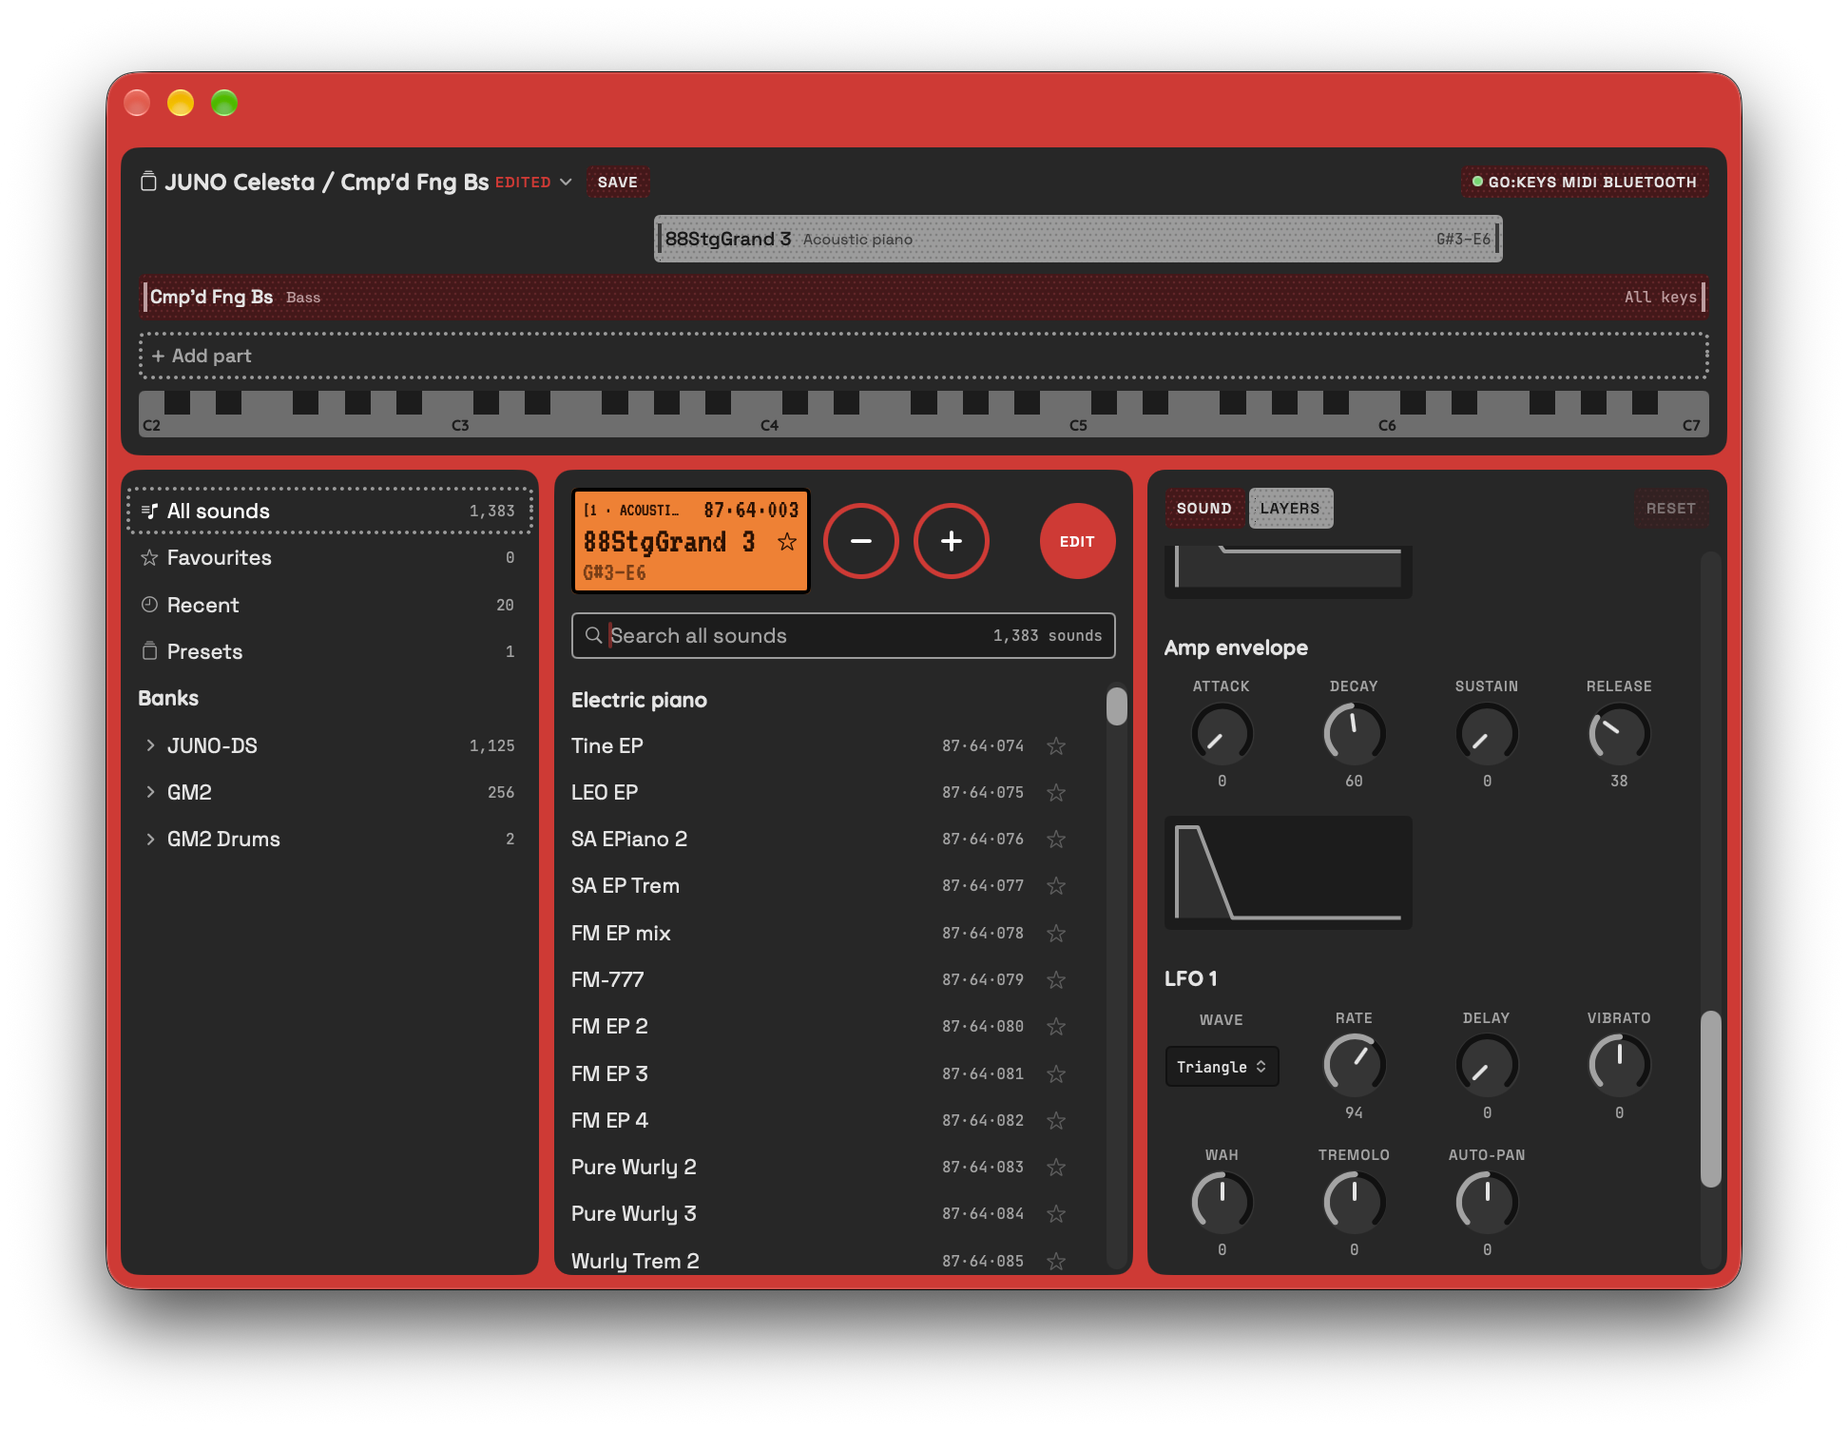
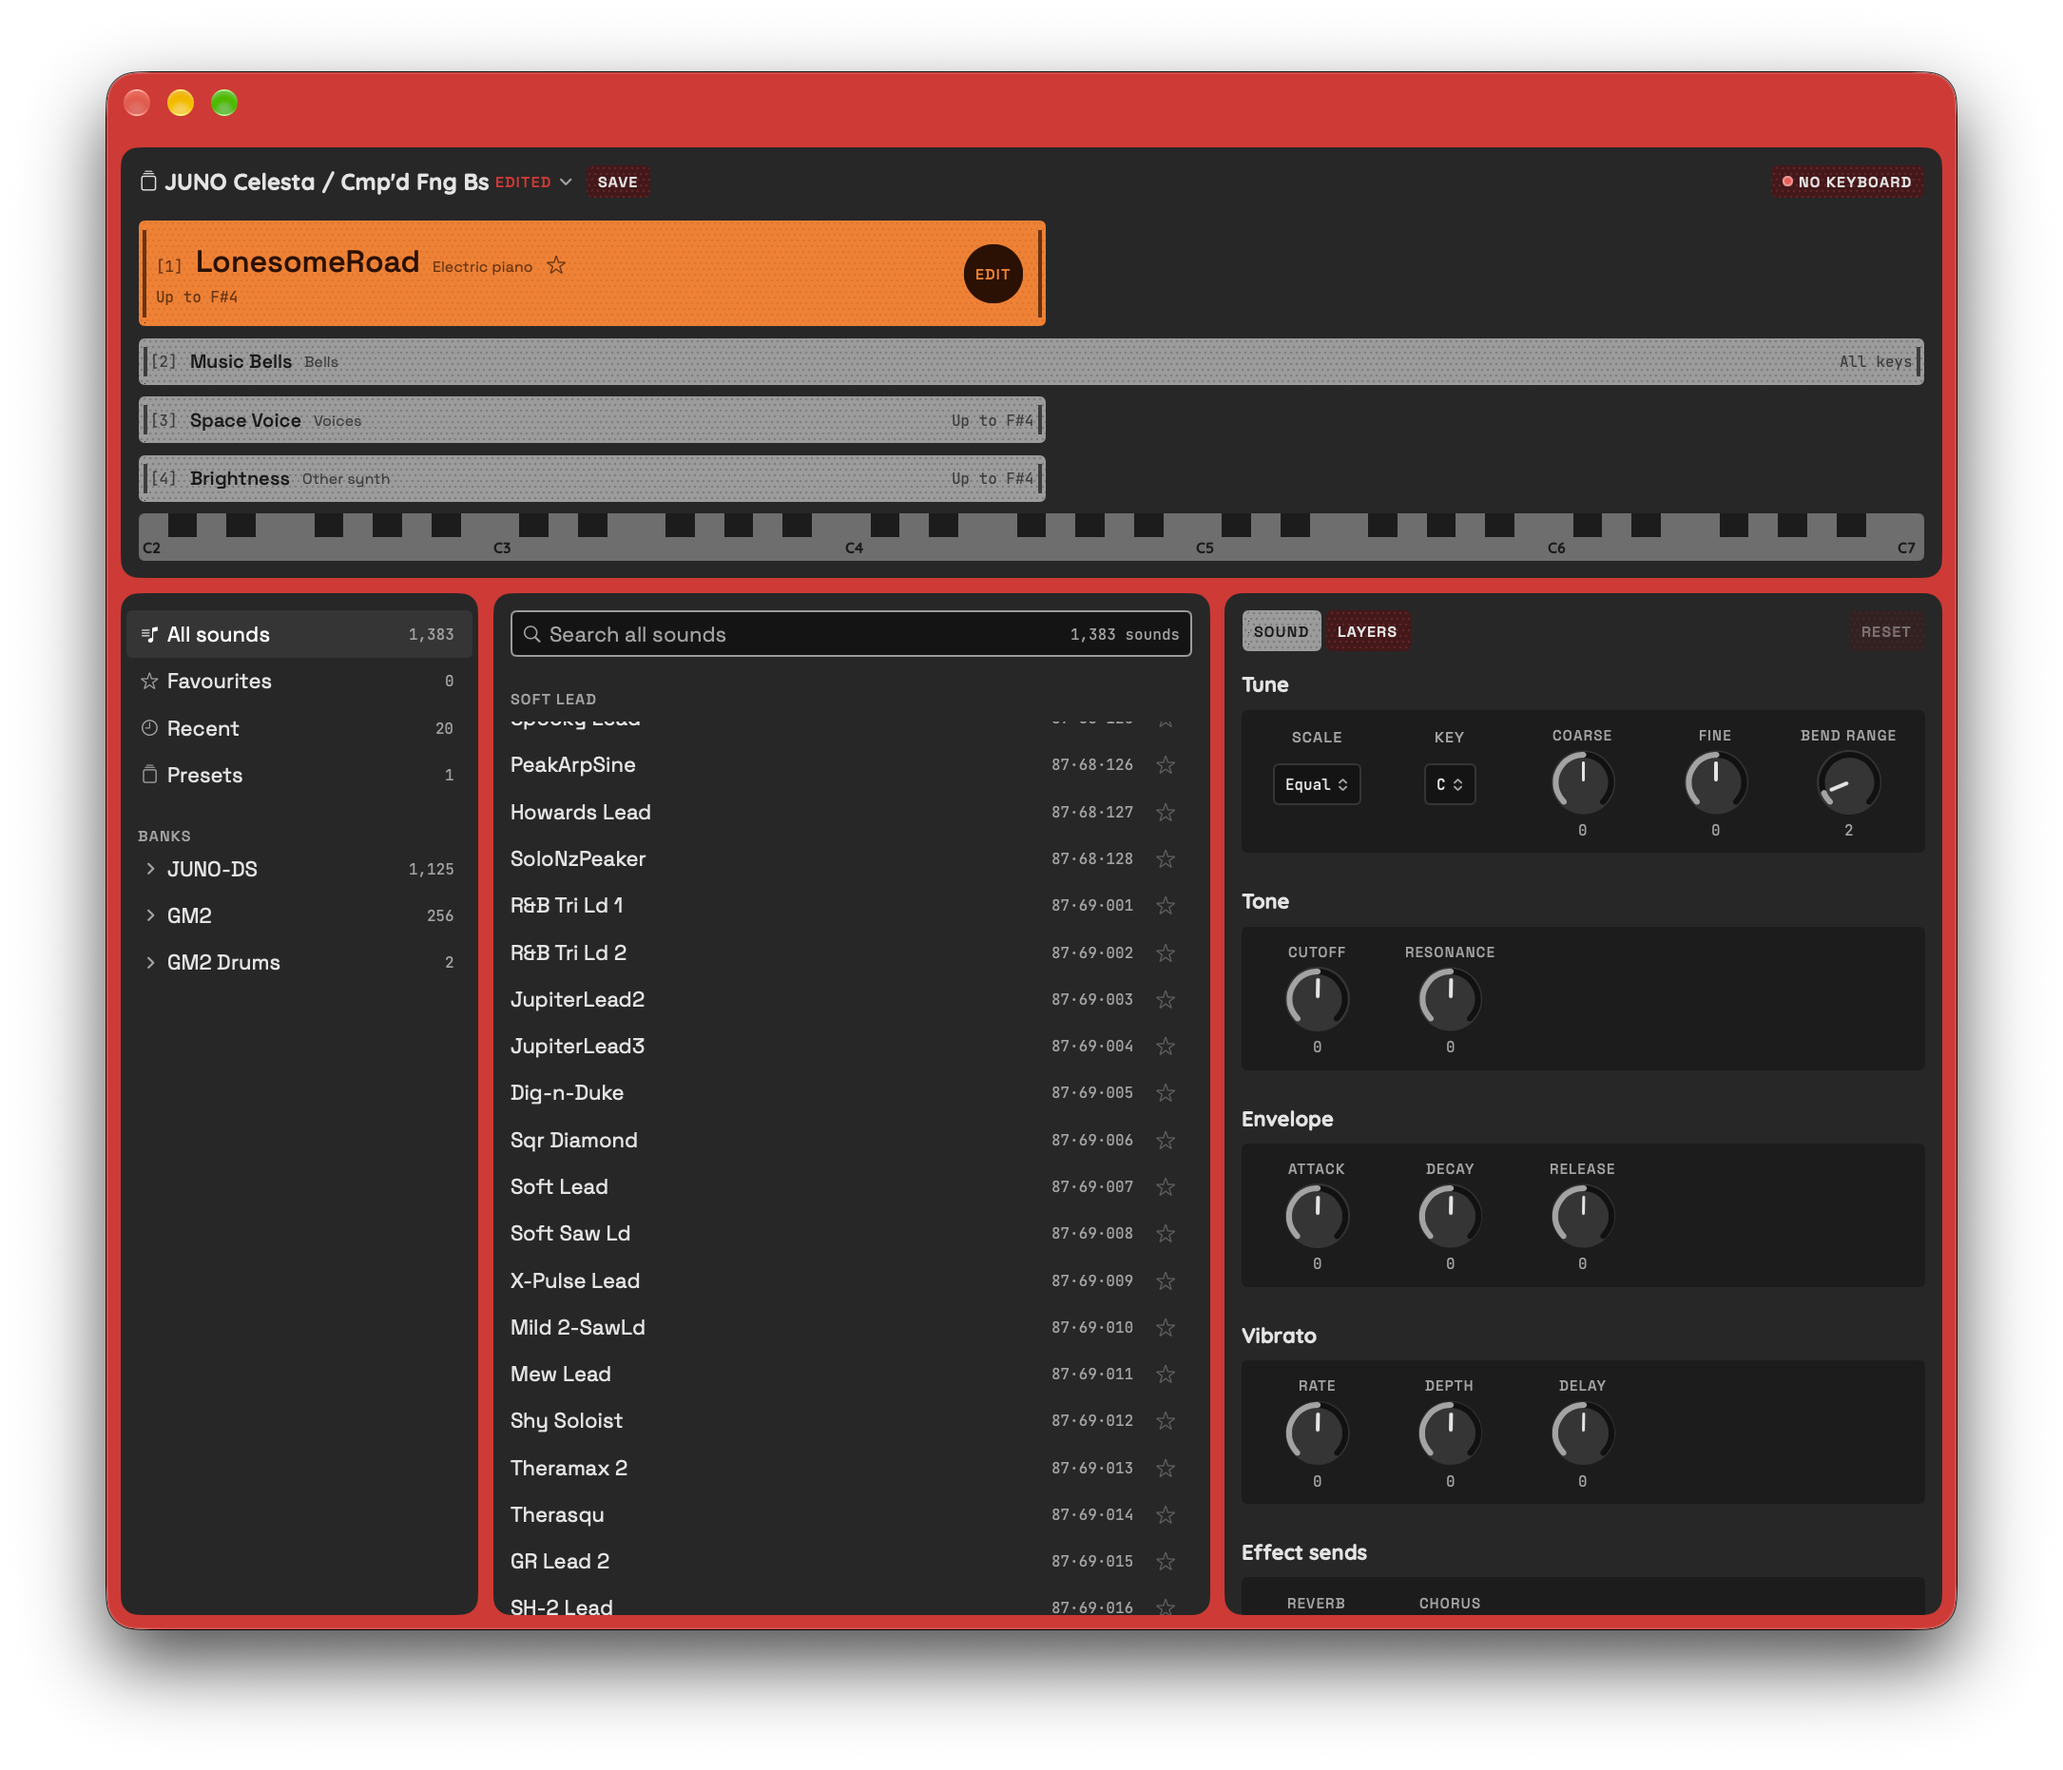
README: a screenshot of the lanes layout

diff --git a/README.md b/README.md
@@ -2,7 +2,7 @@
 
 Browse, search and pick any of the ~1,380 sounds a Roland GO:KEYS can play over MIDI (its JUNO-DS patches and the GM2 set), and send the pick to the keyboard over Bluetooth MIDI. Runs on iPhone (portrait), iPad and Mac.
 
-![Go:Voices on the Mac: two parts across the keys (88StgGrand 3 over the upper keys, Cmp'd Fng Bs on all of them) above the keyboard, the tree of banks, the Electric piano sounds under the orange display with −, + and EDIT, and the Edit panel's Layers tab showing the amp envelope and LFO 1](docs/images/go-voices-mac.png)
+![Go:Voices on the Mac: four parts across the keys, the selected one (LonesomeRoad, up to F#4) lit amber with its star and EDIT, Music Bells, Space Voice and Brightness in silver above the keyboard; the tree of banks, the Soft lead sounds, and the Edit panel's Sound tab with Tune, Tone, Envelope and Vibrato](docs/images/go-voices-mac.png)
 
 The sound list comes from [GO:Plus](https://github.com/waldt/goplus)'s `GO-sounds.md` (see [Acknowledgements](#acknowledgements)). Selecting a sound sends bank select (CC 0 / CC 32) and a program change on the chosen channel (default 1).
 

diff --git a/docs/plans/go-voices.md b/docs/plans/go-voices.md
@@ -224,7 +224,7 @@ go-voices/
 - [x] The LCD dropped: the selected lane is lit amber (dimmer in Dark), twice as tall, with the sound's star and an outlined EDIT; the other lanes silver, all numbered `[1]`–`[4]`; ⌘1–⌘4 select a part; − and + dropped for ↑ ↓ (also in the search field) and ⌘← ⌘→; errors as a wine banner over the list; VT323 removed; `ViewModel.display` became `current` (id and star only) {#lanes-first}
 - [x] List: the current sound filled lighter instead of a dotted rim (the rim kept for the layer card and Add part); category headings and Banks as small dim capitals close to their sounds; a gentle ease to a nearby sound, a cut to just short and an ease the rest of the way for a far one {#list-polish}
 - [x] Tried and kept as they were: the sampled red #D82D19 (back to #E0242B), a quieter wine, wine for the inactive lanes {#look-trials}
-- [ ] New README screenshot of the lanes layout {#readme-shot}
+- [x] New README screenshot of the lanes layout {#readme-shot}
 
 ### Review
 - [ ] The person tries the app with the GO:KEYS {#review}
